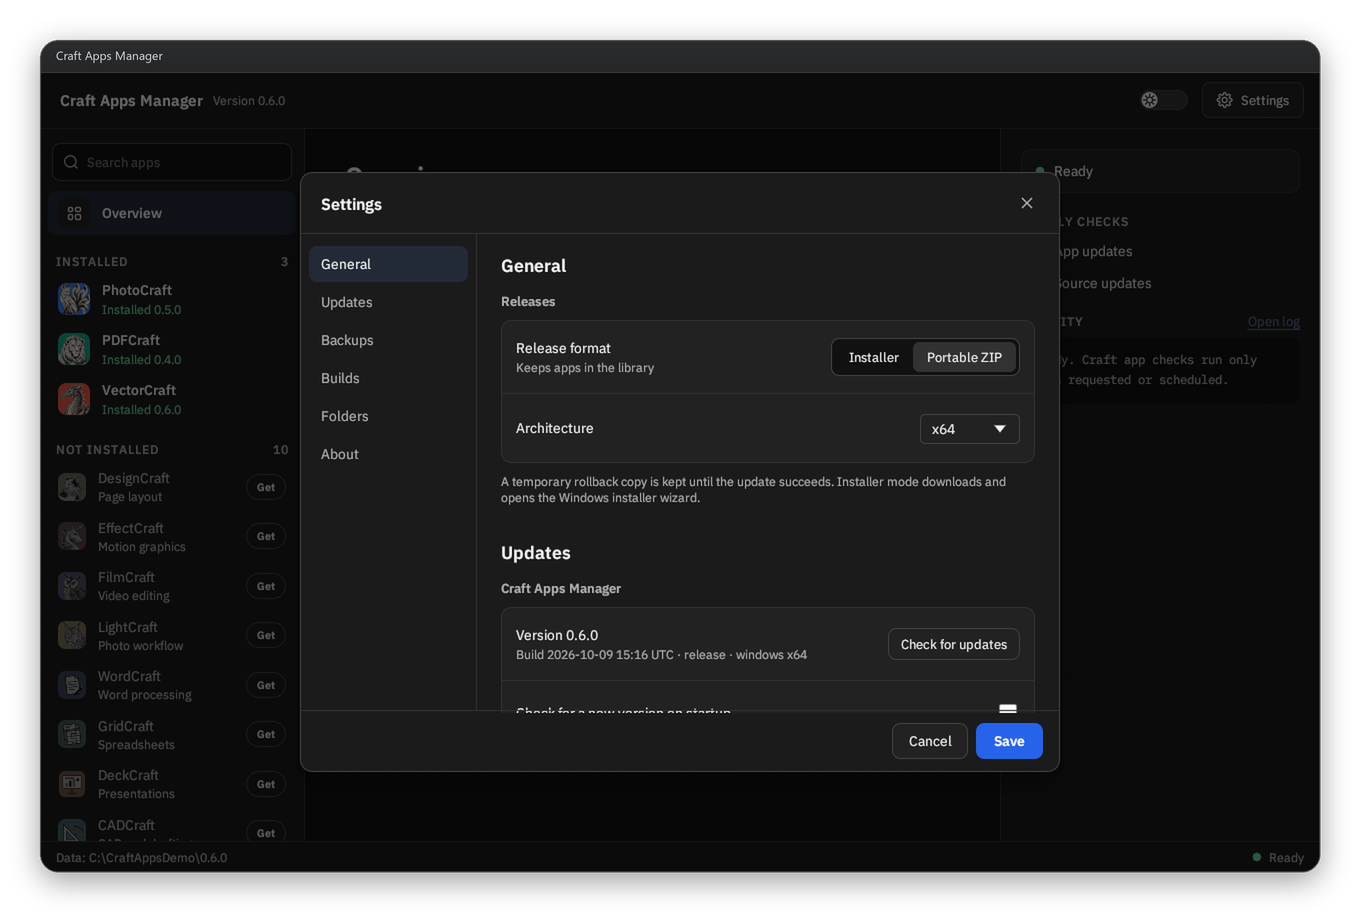
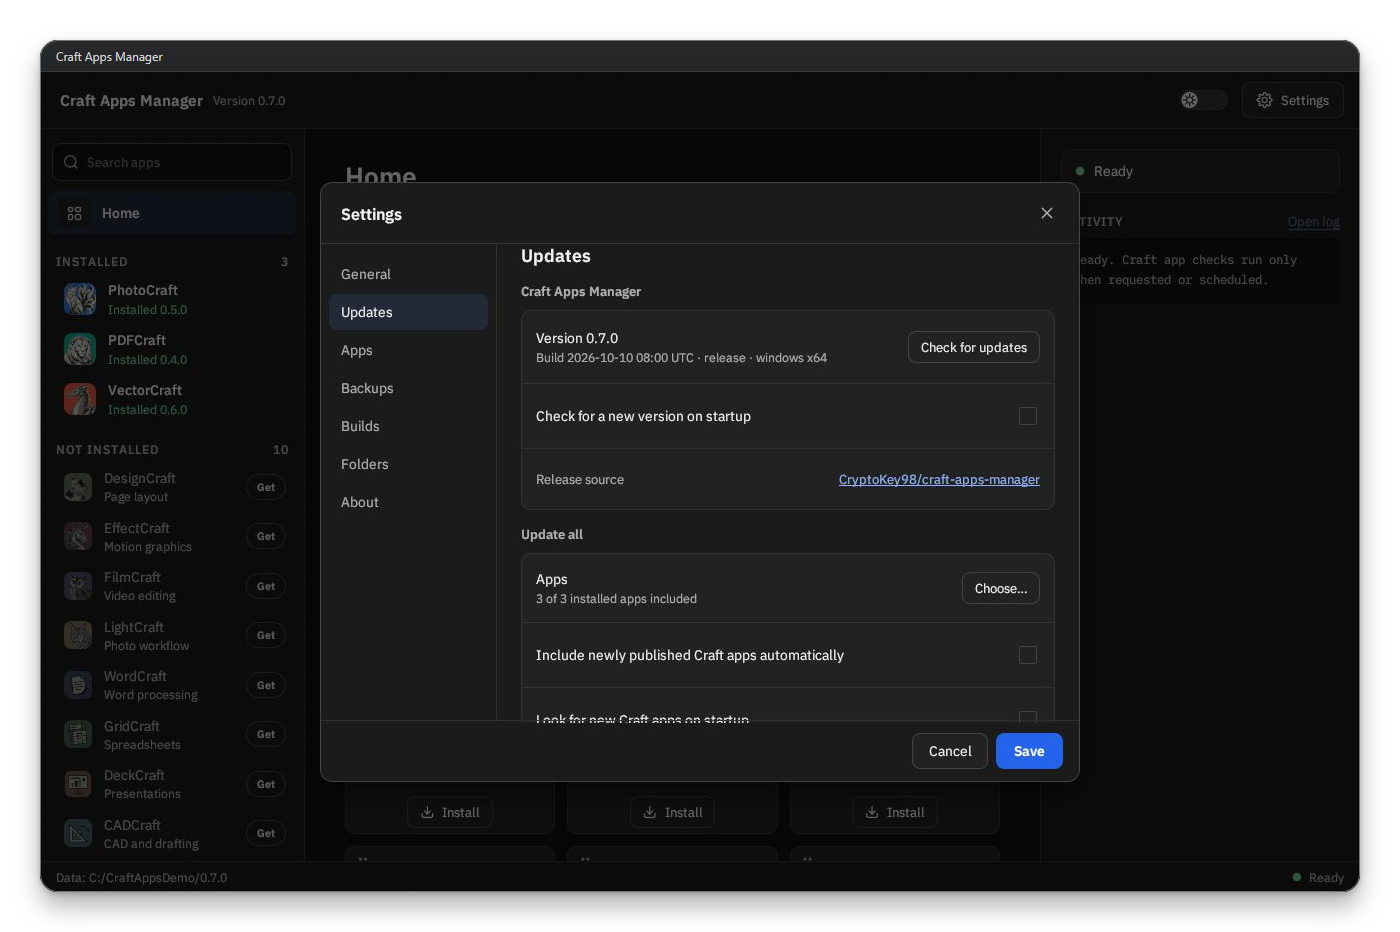
Refresh README screenshots for 0.7.0

diff --git a/README.md b/README.md
@@ -10,32 +10,32 @@ App discovery and ArtCraft support were contributed by [carpaaaaa](https://githu
 
 [Download the latest release](https://github.com/CryptoKey98/craft-apps-manager/releases/latest)
 
-![PhotoCraft's page in Craft Apps Manager](docs/images/main.png?v=0.6.0)
+![PhotoCraft's page in Craft Apps Manager](docs/images/main.png?v=0.7.0)
 
-Screenshots show the Windows 0.6.0 release with a separate demo library.
+Screenshots show the Windows 0.7.0 release with a separate demo library.
 
 <details>
 <summary>More screenshots</summary>
 
 **Home** — update chosen apps, launch installed apps, arrange app tiles, and follow the activity log.
 
-![Overview page](docs/images/overview.png?v=0.6.0)
+![Home page](docs/images/overview.png?v=0.7.0)
 
 **Install** — Install, Update and Get ask for confirmation before downloading.
 
-![Install confirmation](docs/images/install.png?v=0.6.0)
+![Install confirmation](docs/images/install.png?v=0.7.0)
 
 **Settings** — one scrolling page for release format, updates, backups, builds and folders.
 
-![Settings](docs/images/settings.png?v=0.6.0)
+![Settings](docs/images/settings.png?v=0.7.0)
 
 **App selection** — choose which installed apps Update All updates. Uninstalled apps cannot be selected.
 
-![Choose apps for Update all](docs/images/app-selection.png?v=0.6.0)
+![Choose apps for Update all](docs/images/app-selection.png?v=0.7.0)
 
 **Builder** — the separate builder window builds any upstream source, including ArtCraft X.
 
-![Craft Apps Builder](docs/images/builder.png?v=0.6.0)
+![Craft Apps Builder](docs/images/builder.png?v=0.7.0)
 
 </details>
 
